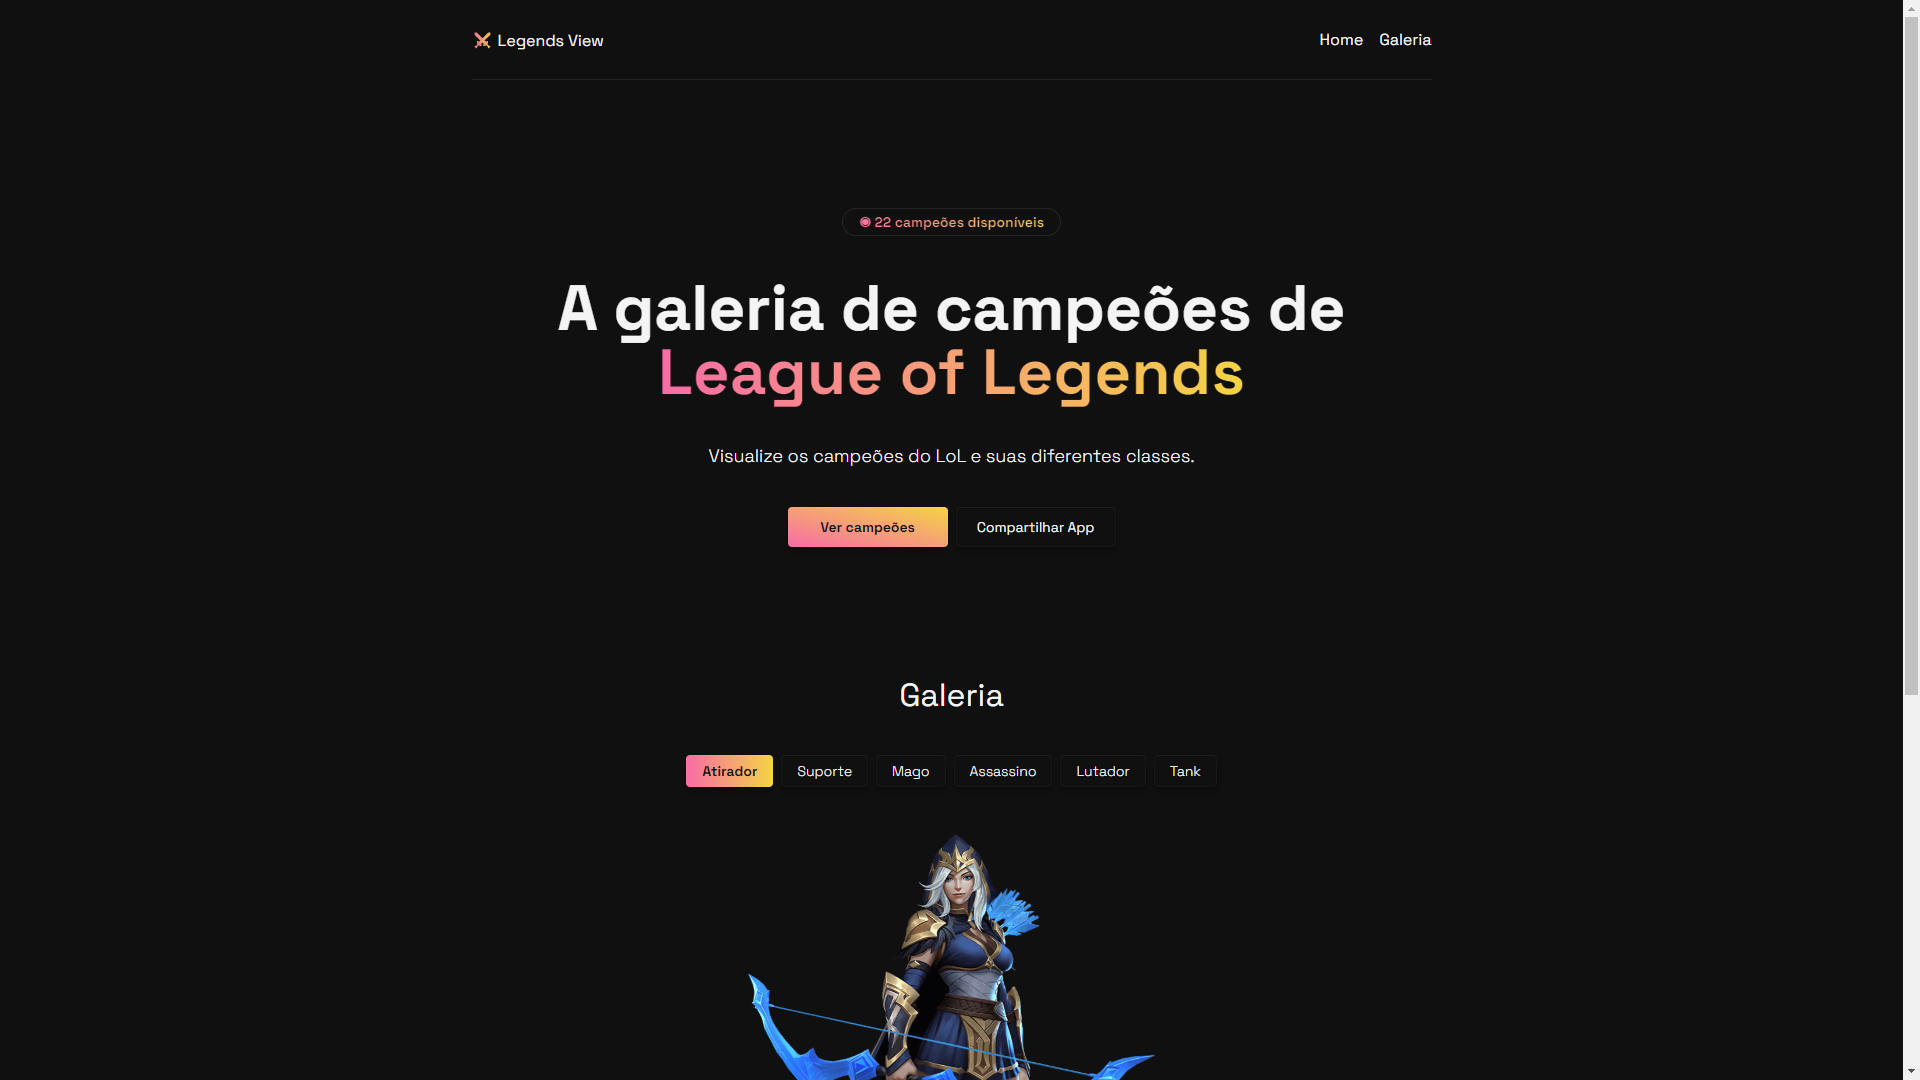
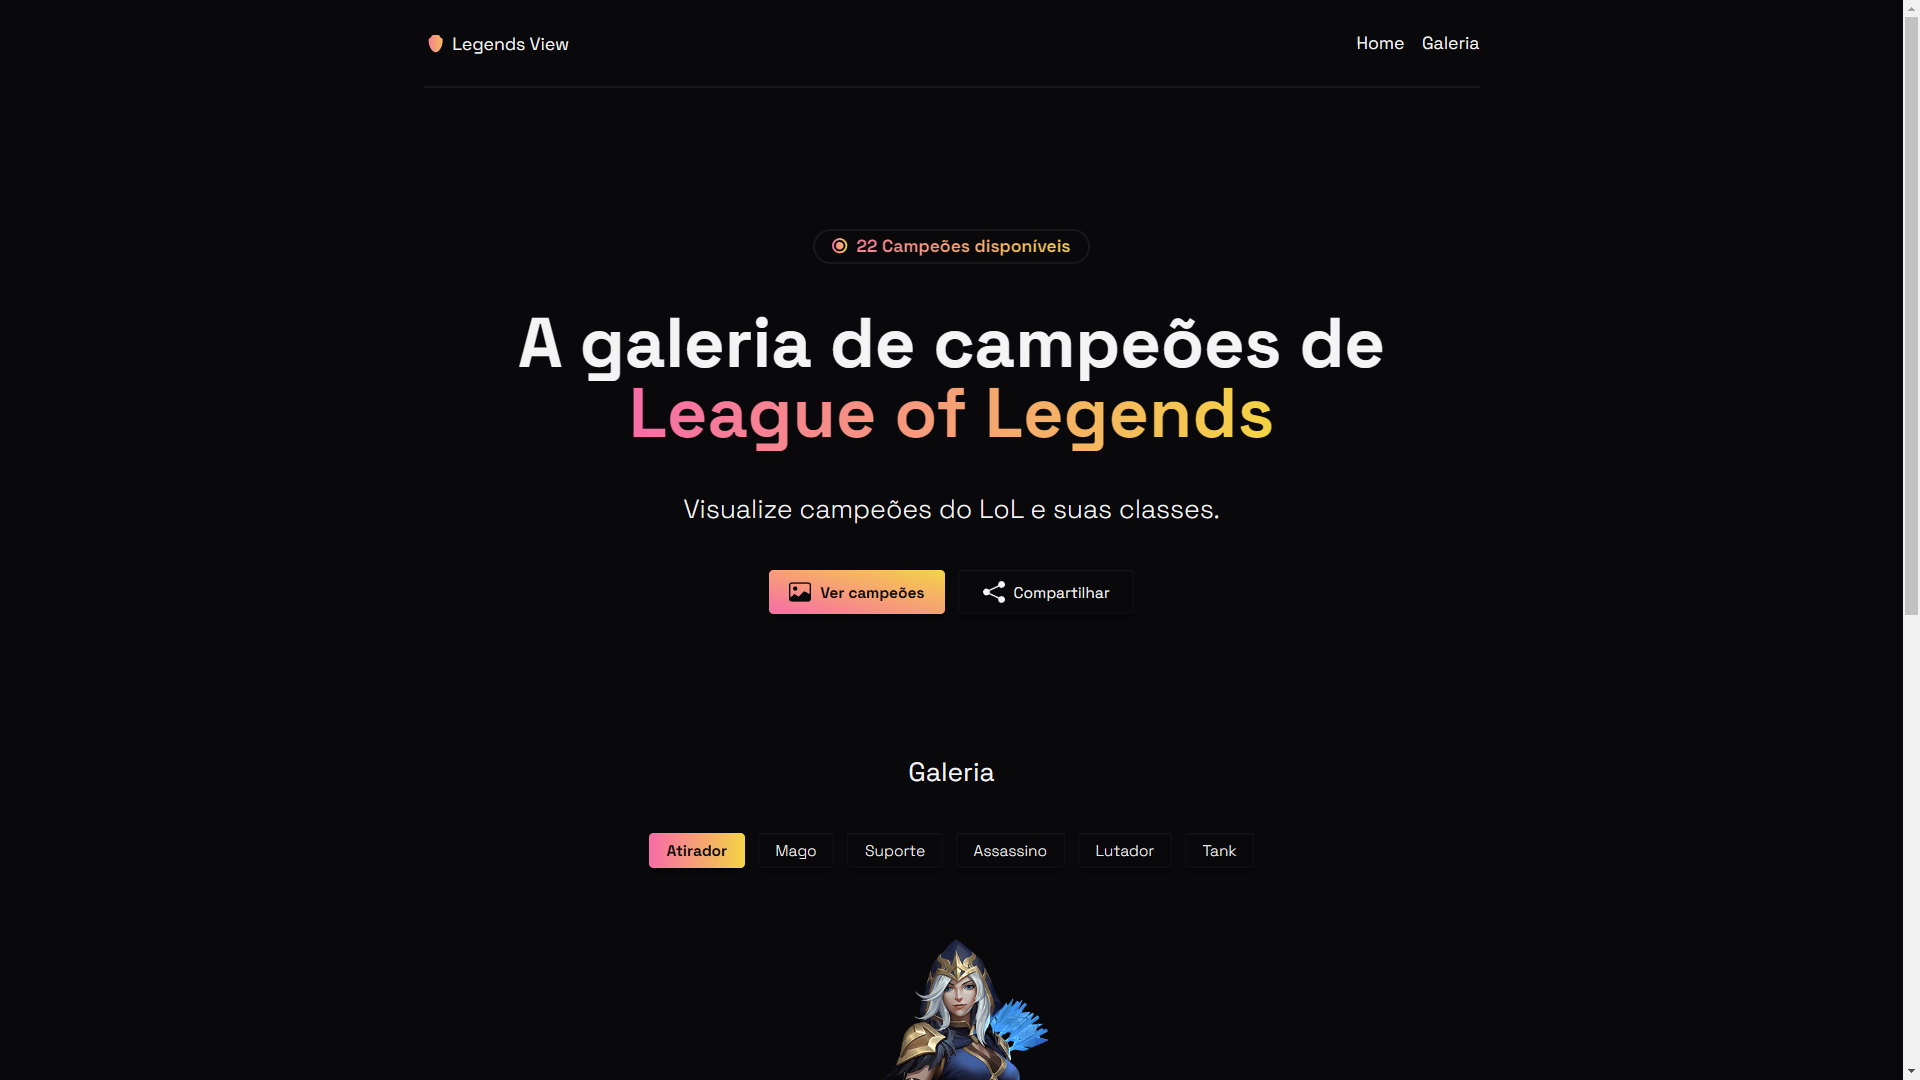
:books: docs: Atualização de README

diff --git a/README.md b/README.md
@@ -1,5 +1,5 @@
 <div align="center">
-  <h1>⚔ Legends View</h1>
+  <h1>🛡 Legends View</h1>
   <p>Uma galeria dos campeões de League of Legends.</p>
   <img src="https://img.shields.io/github/languages/count/udanielnogueira/legends-view">
   <img src="https://img.shields.io/github/languages/top/udanielnogueira/legends-view">
@@ -23,7 +23,7 @@
 
 <img src="./assets/img/desktop-mockup.png">
 
-O Legends View é uma aplicação que permite visualizar as classes e campeões do conhecido jogo League of Legends, selecione uma classe e veja os campeões de Runeterra que batalham em Summoner's Rift.
+Uma aplicação que permite visualizar as classes e os campeões de League of Legends.
 
 <h2 id="preview">Preview</h2>
 
@@ -109,7 +109,7 @@ function exibirAdc() {
   });
   adcBtn.classList.add('active');
 
-  championImgs.innerHTML = 'Selecione um campeão';
+  championContent.innerHTML = 'Selecione um campeão';
   championsBtns.innerHTML = '';
   for (let atirador of atiradores) {
     championsBtns.innerHTML += `
